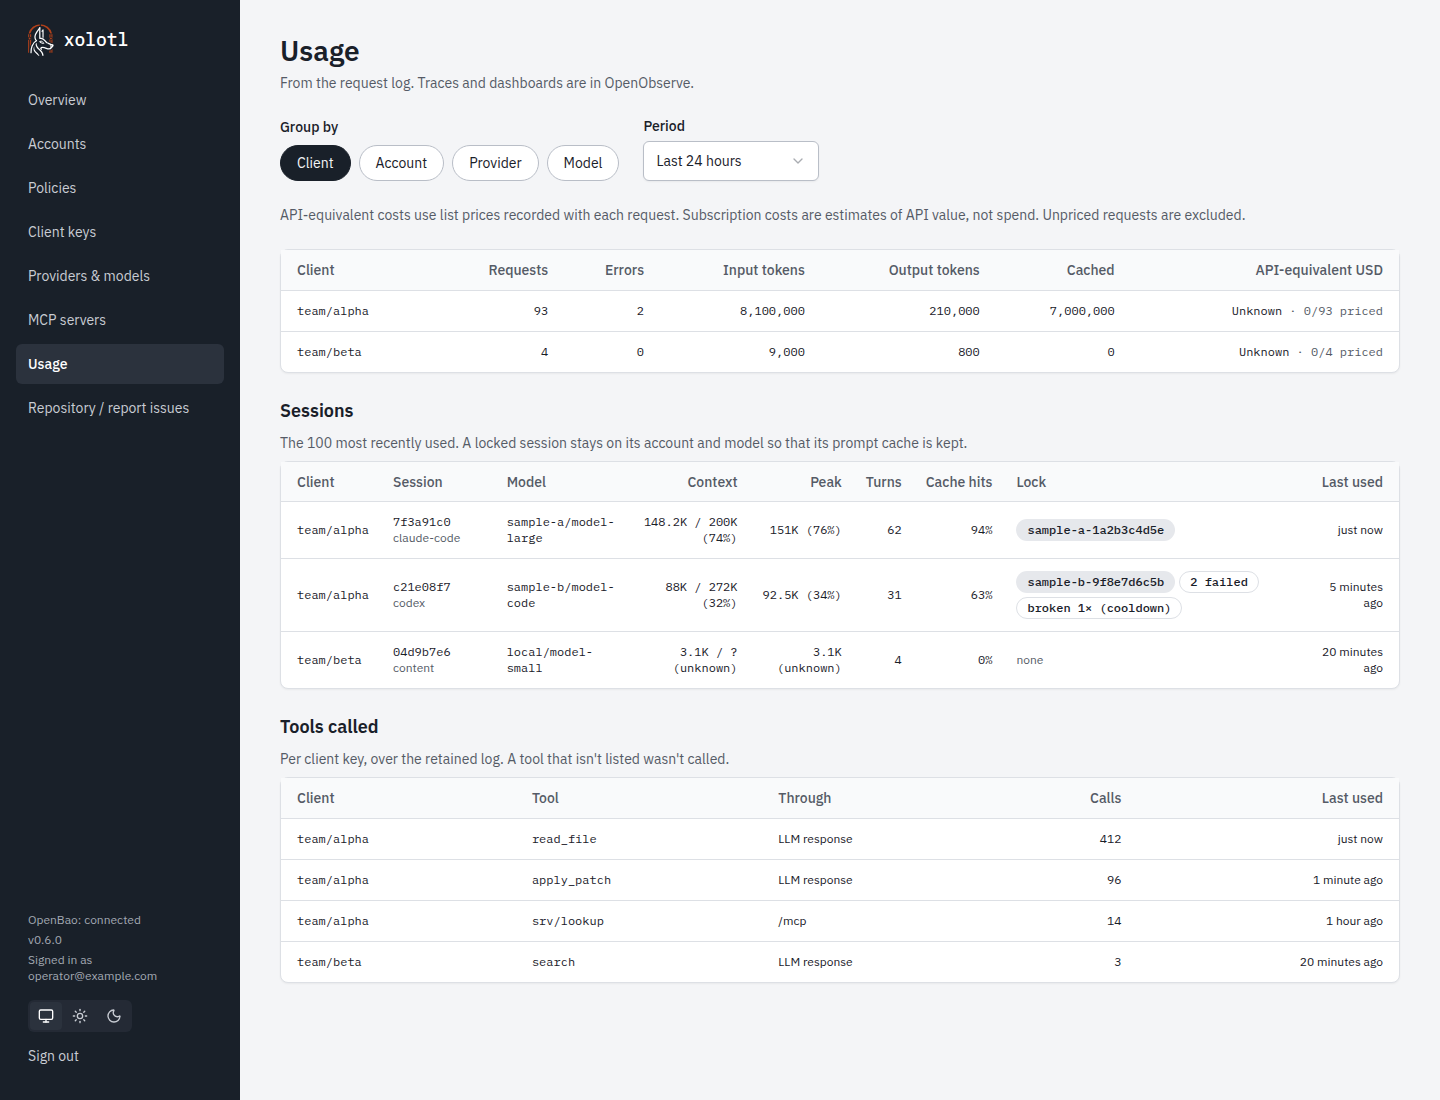
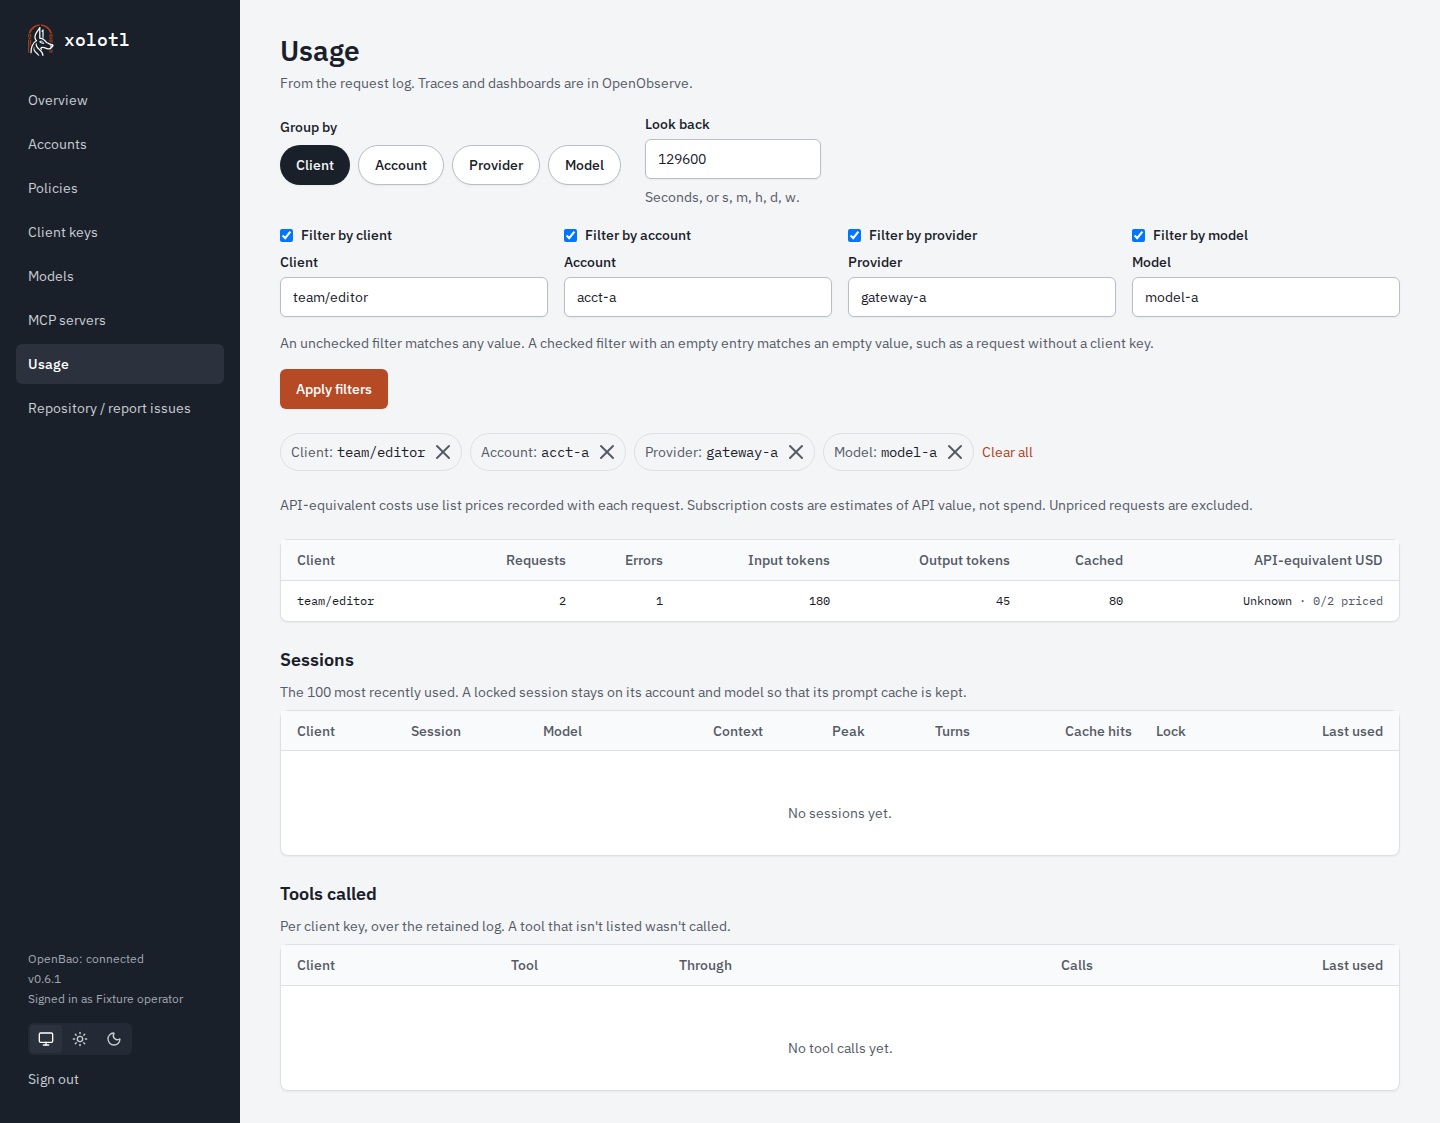
test(ui): capture request usage browser workflows

diff --git a/tests/browser/request-usage/vault-proxy.py b/tests/browser/request-usage/vault-proxy.py
@@ -1,0 +1,18 @@
+from http.server import ThreadingHTTPServer, BaseHTTPRequestHandler
+import http.client, urllib.request, json, time
+class Proxy(BaseHTTPRequestHandler):
+ def forward(self):
+  with urllib.request.urlopen('http://localhost:34444/fixture/mode') as r: mode=json.load(r)['mode']
+  if '/metadata/' in self.path and mode == 'slow': time.sleep(.5)
+  if '/metadata/' in self.path and mode == 'failed':
+   body=b'{"errors":["fixture permission denied"]}'
+   self.send_response(403); self.send_header('Content-Length',str(len(body))); self.end_headers(); self.wfile.write(body); return
+  c=http.client.HTTPConnection('127.0.0.1',34200)
+  body=self.rfile.read(int(self.headers.get('Content-Length',0)))
+  c.request(self.command,self.path,body,dict(self.headers))
+  r=c.getresponse(); data=r.read()
+  self.send_response(r.status)
+  self.send_header('Content-Type','application/json'); self.send_header('Content-Length',str(len(data))); self.end_headers(); self.wfile.write(data); c.close()
+ do_GET=do_POST=do_PUT=do_DELETE=do_LIST=forward
+ def log_message(self,*args): pass
+ThreadingHTTPServer(('127.0.0.1',34445),Proxy).serve_forever()

diff --git a/tests/browser/request-usage/seed.py b/tests/browser/request-usage/seed.py
@@ -1,0 +1,10 @@
+import sqlite3,time
+c=sqlite3.connect('/data/xolotl.db')
+now=int(time.time())
+rows=[(now-3600,'team/editor','gateway-a','acct-a','model-a',200,100,25,50,240),
+(now-7200,'team/editor','gateway-a','acct-a','model-a',500,80,20,30,140),
+(now-30*3600,None,'gateway-b',None,'model-b',200,200,50,100,340),
+(now-40*3600,'old-client','gateway-a','acct-a','model-a',200,400,80,200,400)]
+c.executemany('INSERT INTO request_log(ts,client_id,provider,account_id,model,status,input_tokens,output_tokens,cached_tokens,latency_ms,endpoint) VALUES(?,?,?,?,?,?,?,?,?,?,"/v1/chat/completions")',rows)
+c.commit()
+print('Seeded four synthetic request rows, including 30h and 40h history.')

diff --git a/tests/browser/request-usage/README.md b/tests/browser/request-usage/README.md
@@ -1,0 +1,61 @@
+# Request usage browser checks and documentation captures
+
+These fixtures use only synthetic data. They build the repository Dockerfile
+and exercise its embedded UI through an OIDC browser session. They require Docker,
+Node, Python 3 and (for the documentation GIF) FFmpeg. Ports
+34200, 34317, 34444 and 34445 must be free. Each fixture run starts with a new vault
+and SQLite volume. Do not point setup or seed at another deployment.
+
+From the repository root, copy the fixtures to a disposable directory. Record
+resources in your ledger and remove them when finished.
+
+```bash
+capture_dir=$(mktemp -d /tmp/agent.XXXXXXXX)
+cp tests/browser/request-usage/* "$capture_dir/"
+docker build -t xolotl-request-usage:acceptance .
+docker run -d --name xolotl-request-vault --network host \
+  -e BAO_DEV_ROOT_TOKEN_ID=fixture-root \
+  -e BAO_DEV_LISTEN_ADDRESS=127.0.0.1:34200 openbao/openbao:latest server -dev
+node "$capture_dir/fixture.mjs" > "$capture_dir/oidc.log" 2>&1 &
+oidc_pid=$!
+python3 "$capture_dir/vault-proxy.py" > "$capture_dir/proxy.log" 2>&1 &
+proxy_pid=$!
+node "$capture_dir/setup.mjs"
+docker run -d --name xolotl-request-app --network host \
+  -v "$capture_dir/config.toml:/etc/xolotl/config.toml:ro" xolotl-request-usage:acceptance
+docker run -d --name xolotl-request-browser --network host --ipc=host \
+  --volumes-from xolotl-request-app -v "$capture_dir:/evidence" \
+  mcr.microsoft.com/playwright:v1.58.2-noble tail -f /dev/null
+docker exec xolotl-request-browser npm install --prefix /runner playwright@1.58.2 @axe-core/playwright
+docker exec xolotl-request-browser node /evidence/signin.cjs
+docker exec xolotl-request-browser python3 /evidence/seed.py
+docker exec -e XOLOTL_COMMIT="$(git rev-parse HEAD)" xolotl-request-browser node /evidence/acceptance.cjs
+docker exec xolotl-request-browser node /evidence/capture.cjs
+ffmpeg -y -i "$capture_dir/usage-queries.webm" \
+  -vf 'fps=6,scale=960:-1:flags=lanczos,split[a][b];[a]palettegen[p];[b][p]paletteuse' \
+  "$capture_dir/usage-queries.gif"
+```
+
+Wait for the vault's startup message before setup and the app's HTTP listener
+before signin. `result.json` starts failed and changes to passed only after every
+assertion finishes. It records the tested commit. Browser route faults simulate
+only the aggregate query failure; success, filtering, empty values, retry and
+look-back boundaries use the container API and seeded SQLite rows. `axe.json`
+contains the main-page WCAG A/AA scan. Screenshots show desktop, phone, invalid
+input and query failure. The script also checks keyboard operation at phone width.
+
+`filters-desktop.png` regenerates `docs/user/assets/usage-sessions.png`.
+`usage-queries.gif` regenerates `docs/user/assets/usage-queries.gif`. The GIF shows
+applying a custom window and client filter, then correcting an invalid duration.
+Copy these outputs to the documentation assets when intentionally updating them.
+
+Keep `session.json` local; it contains an ephemeral session cookie. Publish only
+synthetic screenshots, GIF and the result report. Cleanup after saving evidence:
+
+```bash
+docker rm -fv xolotl-request-browser xolotl-request-app
+docker rm -f xolotl-request-vault
+docker image rm xolotl-request-usage:acceptance
+kill "$oidc_pid" "$proxy_pid"
+rm -rf "$capture_dir"
+```

diff --git a/docs/user/web-ui.md b/docs/user/web-ui.md
@@ -142,6 +142,8 @@ The **Policies** screen shows the models of a policy in two modes.
 
 ### Usage
 
+![Apply a 36-hour window and client filter, then see validation preserve an invalid duration and the active query](assets/usage-queries.gif)
+
 Use **Look back** to enter a positive whole-number duration, such as `36h`,
 `15m`, `2w`, or `90` seconds. The default is 24 hours. Supported units are
 `s`, `m`, `h`, `d` and `w`.
